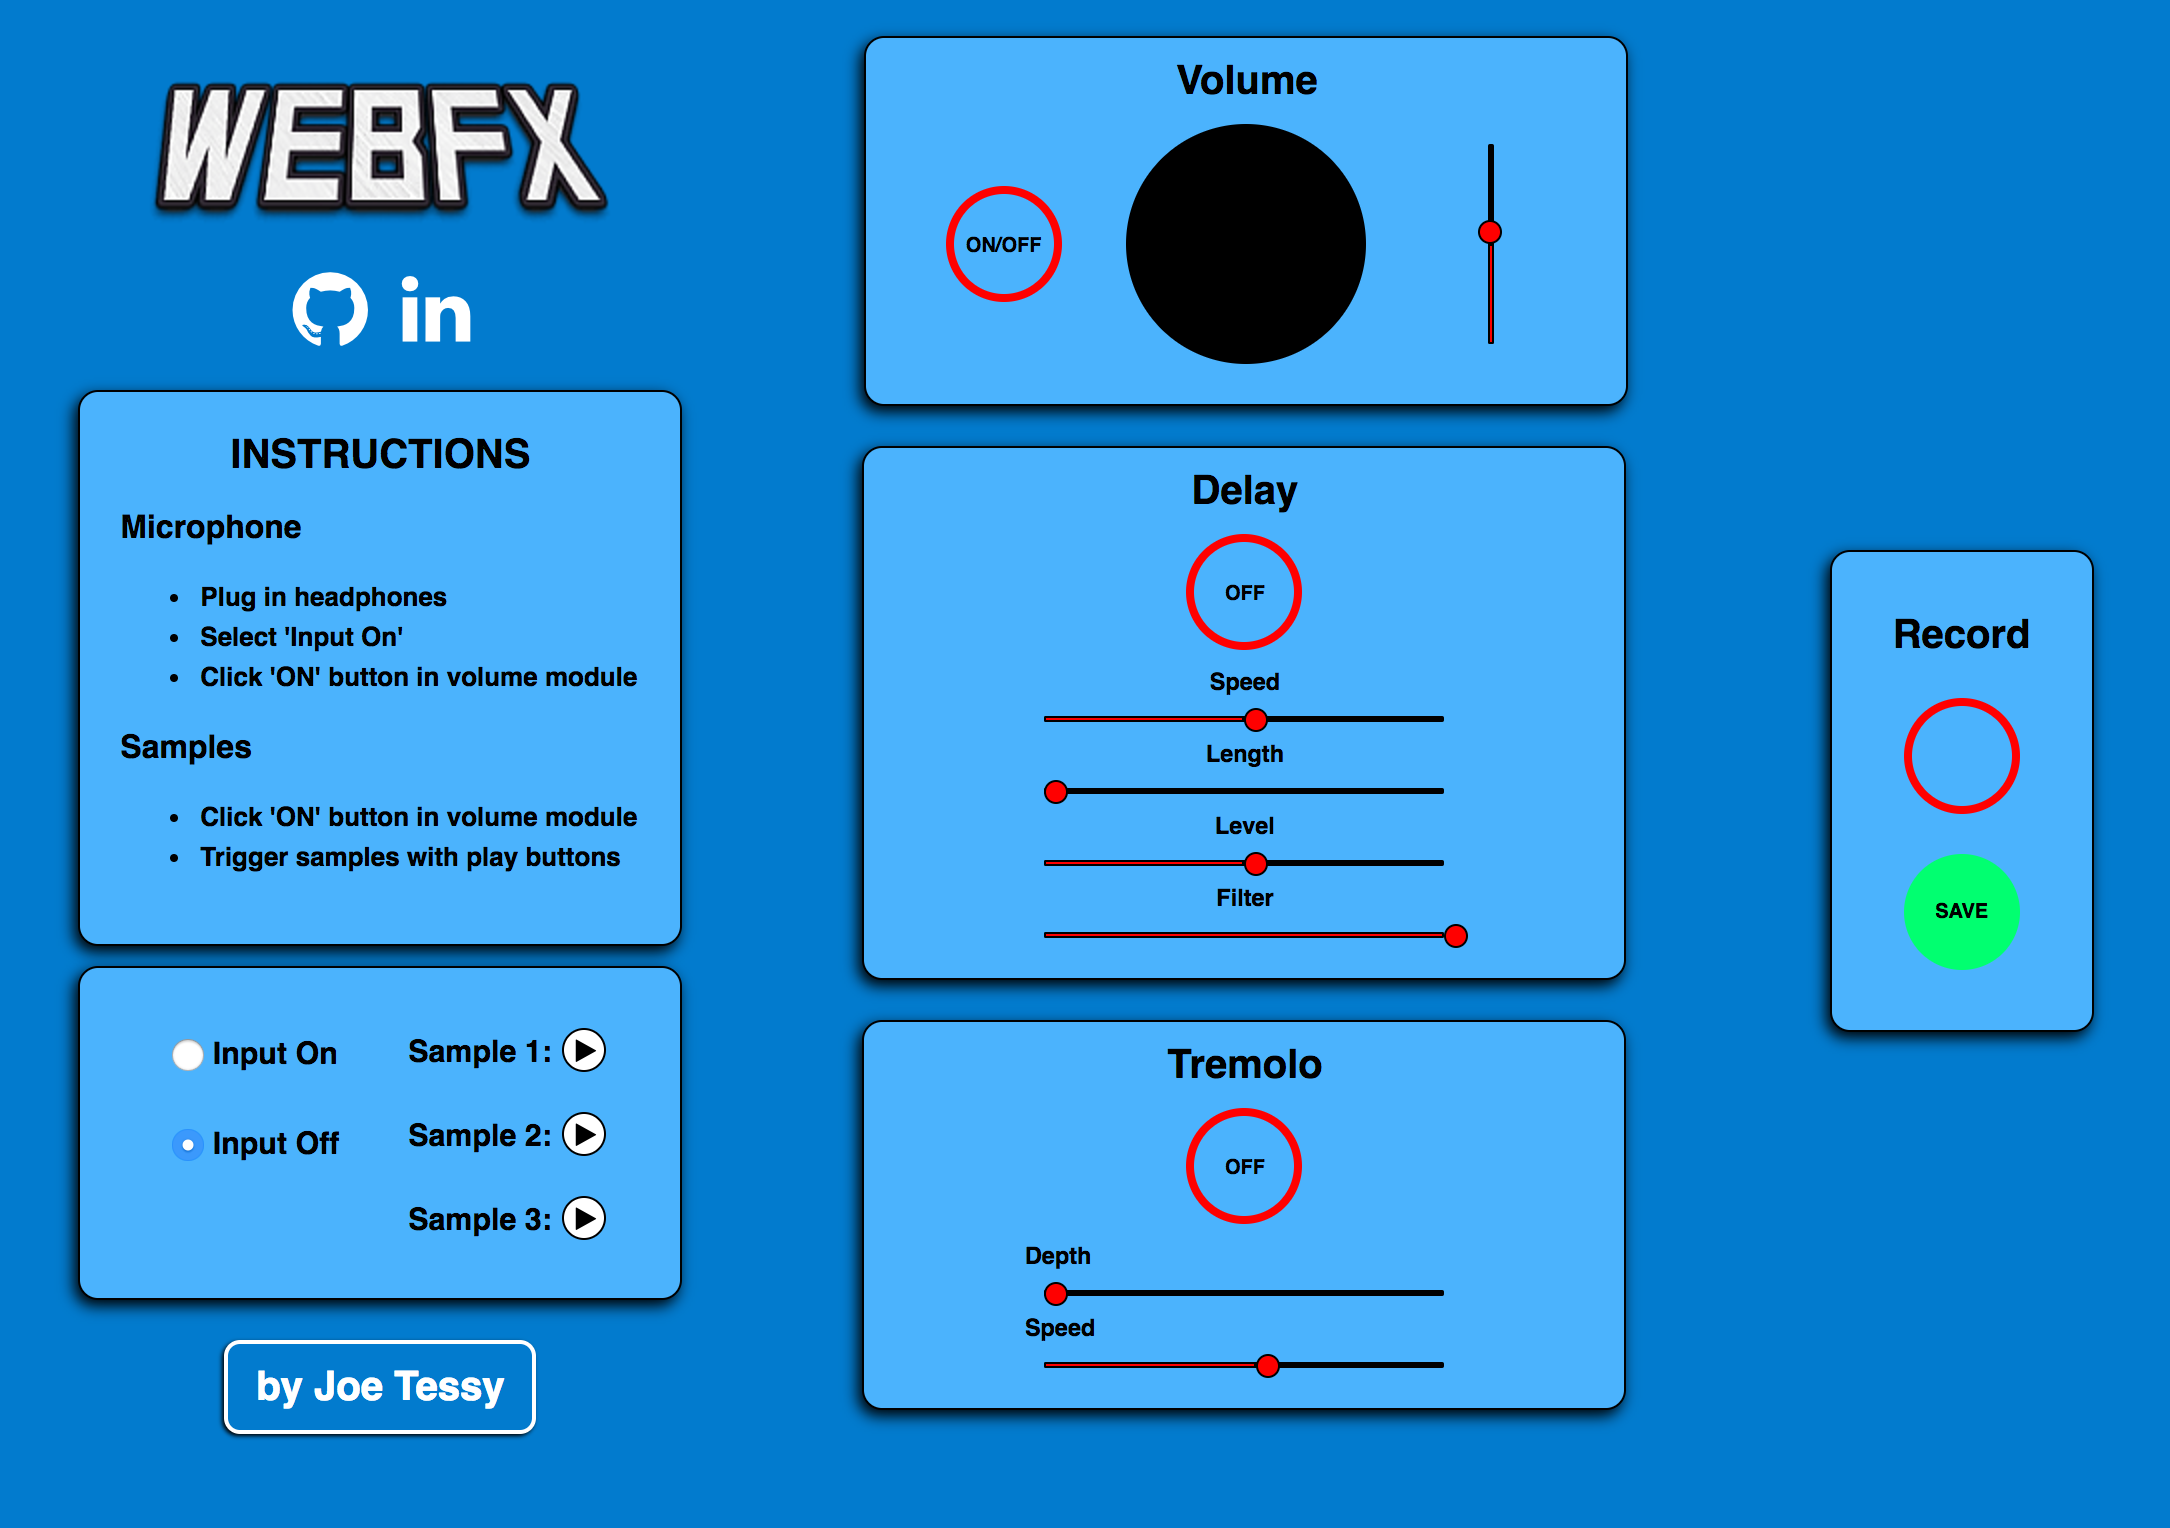
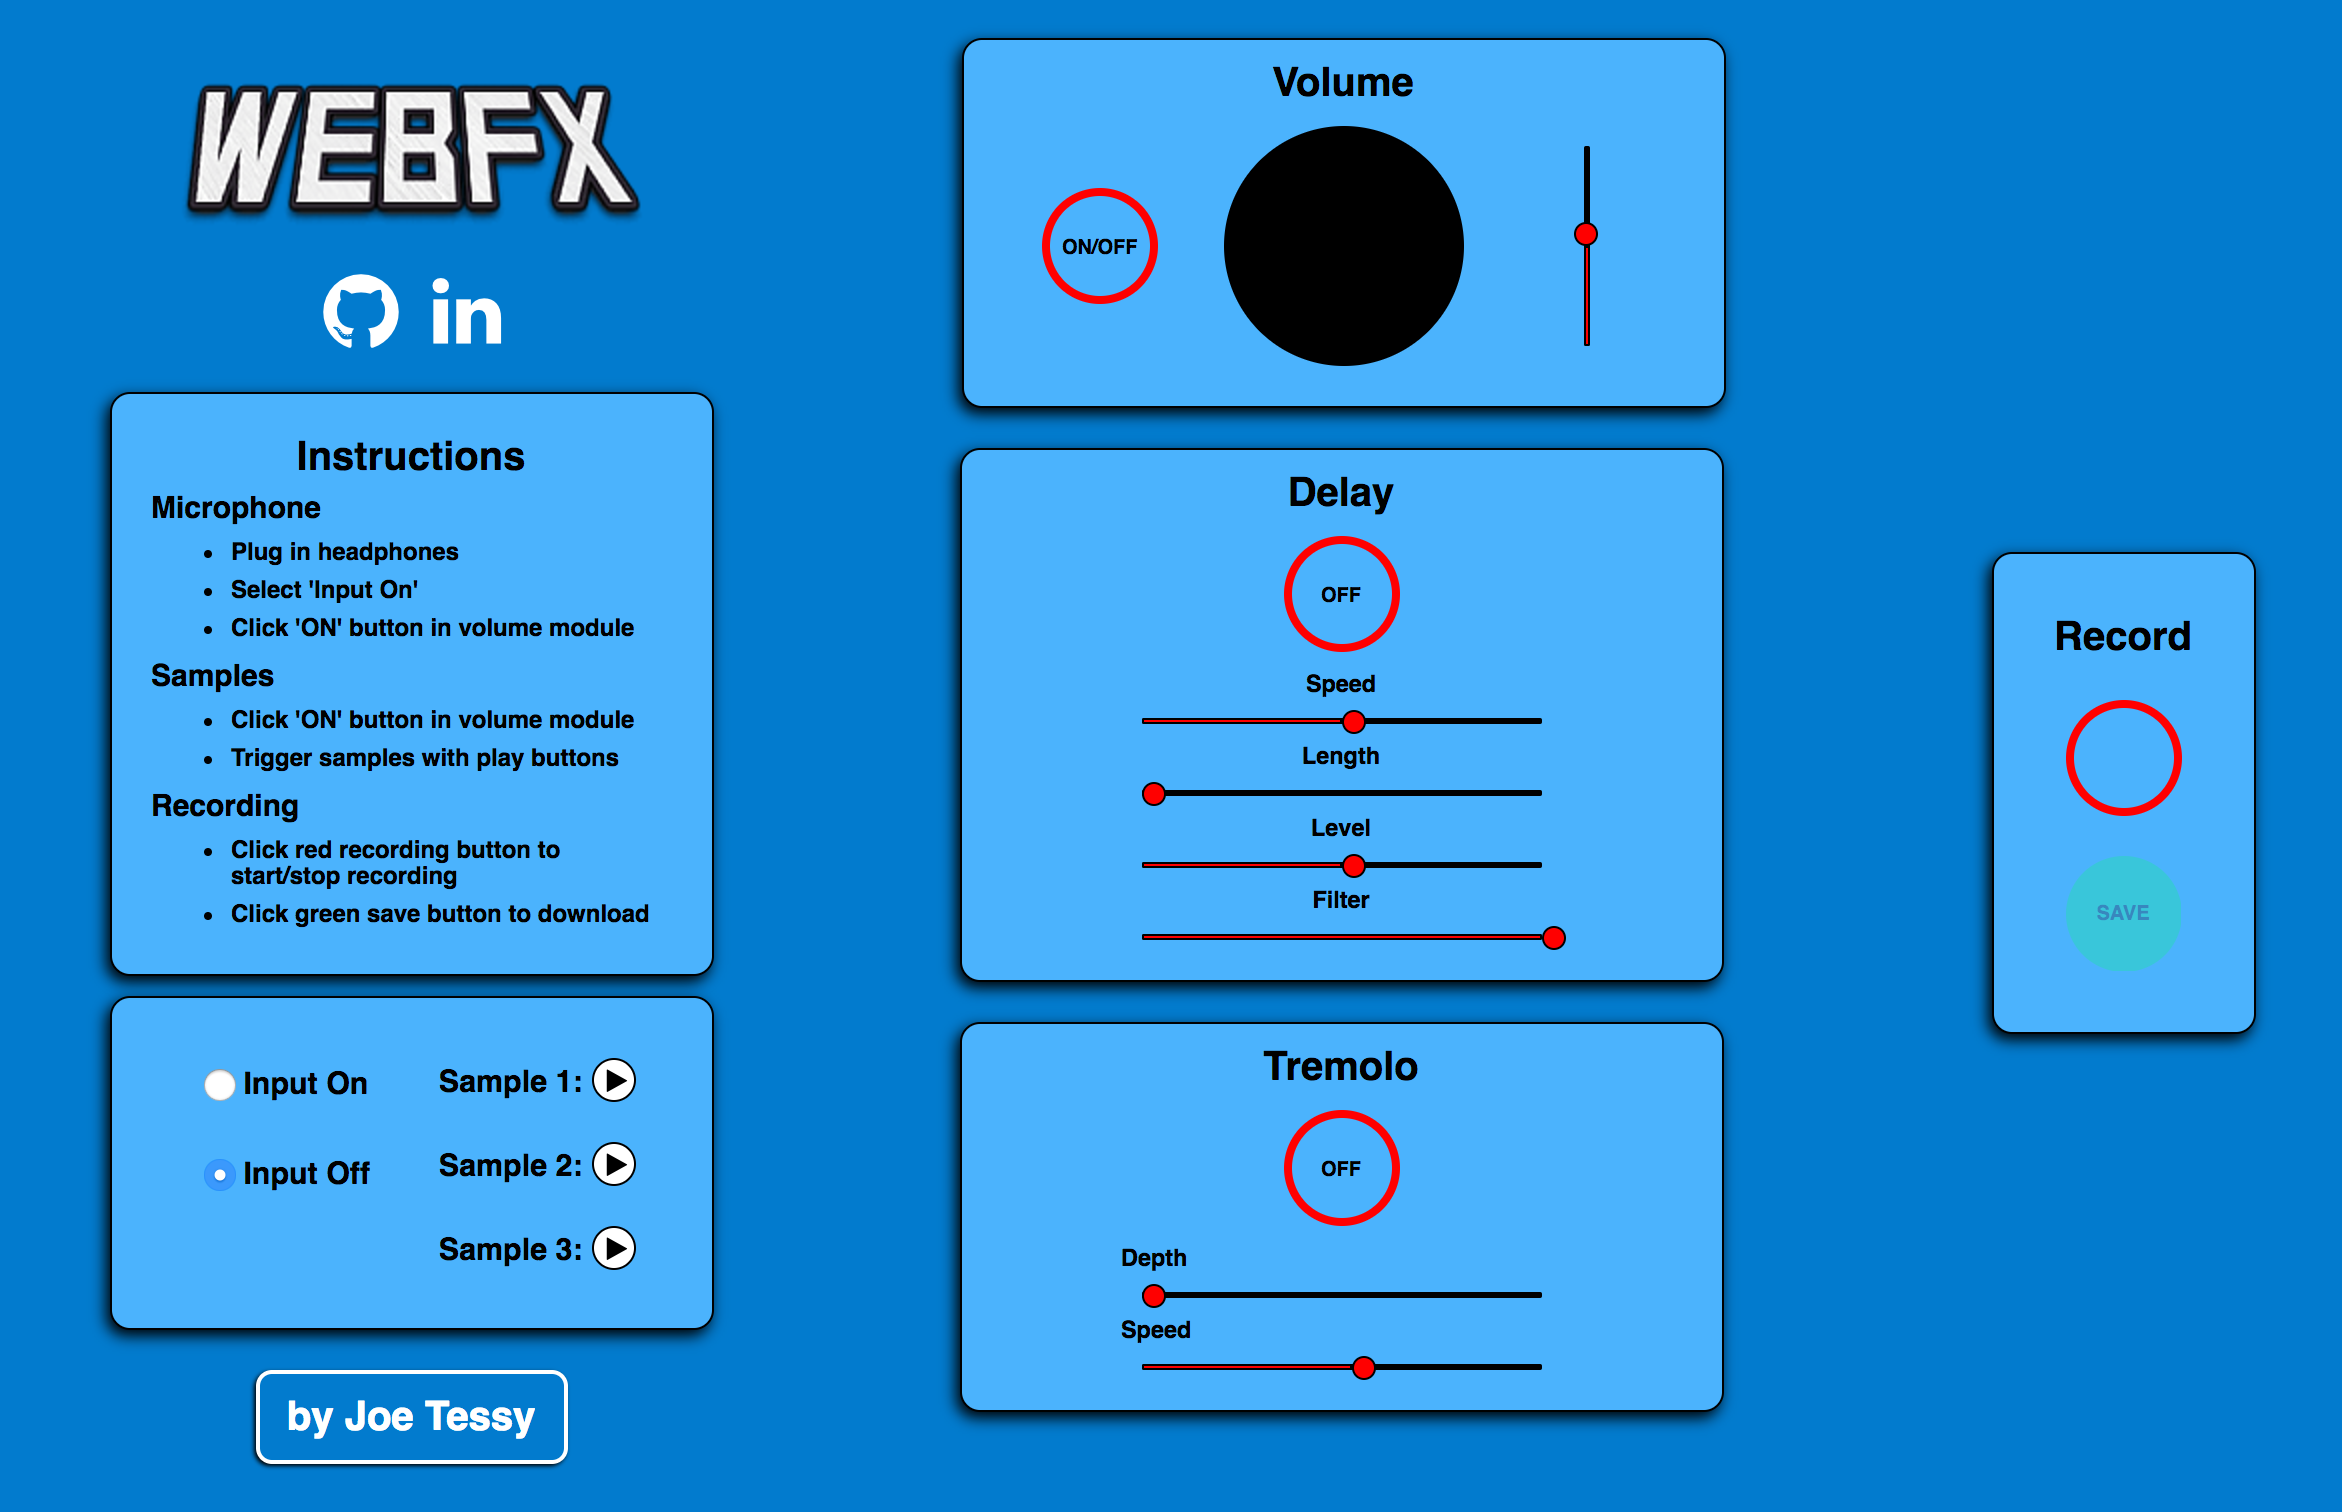
clean up
made cursor pointer for input buttons

made instructions clearer

updated image

update layout

layout changes

layout styling

layout styling

Layout Changes

diff --git a/scripts/main.js b/scripts/main.js
@@ -1,7 +1,3 @@
-// everything is happening inside the AudioContext Interface
-// Controls creation of AudioNodes and execution of Audio Processing
-
-
 window.AudioContext = window.AudioContext || window.webkitAudioContext;
 let audioContext = new AudioContext();
 let streamSource = null,
@@ -46,7 +42,6 @@ const play3Button = document.querySelector('#play3');
 play3Button.onclick = () => handleClick(play3Button, audio3Buffer);
 
 let sample;
-
 function handleClick(button, audioBuffer) {
   if (button.children[0].className.includes('fa-play')){
     if (sample){
@@ -65,15 +60,13 @@ function handleClick(button, audioBuffer) {
   } else if (button.children[0].className.includes('fa-pause')){
     button.children[0].className = 'fa fa-play';
     sample.stop();
-    }
-	}
-
+  }
+}
 
 function gotStream(stream){
   streamSource = audioContext.createMediaStreamSource(stream);
   streamSource.connect(mixNode);
 }
-// Checks for input. If there is, start the stream
 
 function didntGetStream(){
   console.log('No stream :(');
@@ -87,17 +80,12 @@ function initAudio(){
 
 function cancelAudio(){
   streamSource.disconnect(mixNode);
-
+  streamSource.disconnect(delayEffect);
 }
 
-// Creates media stream
-
 const onOff = document.querySelector('#on-off');
-const audioOn = document.querySelector('.audio-on');
-const audioOff = document.querySelector('.audio-off');
 onOff.onclick = startStopAudio;
 
-// Handles starting / stopping audio.
 function startStopAudio(){
   if (onOff.className ==='audio-off') {
     onOff.className = 'audio-on';
@@ -105,9 +93,6 @@ function startStopAudio(){
     mixNode.connect(volumeNode);
     mixNode.gain.value = 1;
     volumeNode.gain.value = .5;
-    // if (streamSource){
-    //   streamSource.connect(mixNode);
-    // }
     sampleNode.connect(mixNode);
     volumeAnalyser.connect(audioContext.destination);
     onOff.innerHTML='ON';
@@ -136,11 +121,11 @@ function handleRecord(){
 }
 
 function doneEncoding( blob ) {
-    Recorder.setupDownload( blob, "myRecording.wav" );
+  Recorder.setupDownload( blob, "myRecording.wav" );
 }
 
 function gotBuffers( buffers ) {
-    rec.exportWAV( doneEncoding );
+  rec.exportWAV( doneEncoding );
 }
 // Volume
 
@@ -160,8 +145,6 @@ $('#volume').slider({
     setVolume((ui.value) / 100);
   }
 });
-
-// Oscilloscope
 
 let canvas = document.querySelector('.waveform');
 let canvasCtx = canvas.getContext('2d');
@@ -201,8 +184,6 @@ function visualize(){
   }
   draw();
 }
-
-// DELAY
 
 const delayOnOff = document.querySelector('#delay-on-off');
 delayOnOff.onclick = handleDelay;

diff --git a/stylesheets/styles.css b/stylesheets/styles.css
@@ -25,25 +25,25 @@ h2 {
   color: black;
   box-shadow: -2px 3px 11px black;
   font-size: 13px;
+  margin: 10px 0;
 }
 
 .social-links{
   width: 90px;
   display: flex;
   justify-content: space-between;
+  margin: 10px 0;
 }
 
 .logo {
-  margin-top: 20px;
+  margin-top: 30px;
 }
 .info a {
   color: white;
   text-decoration: none;
+  height: 40px;
 }
 
-.social-links{
-  margin: 20px;
-}
 .github-link {
 }
 
@@ -91,6 +91,7 @@ header {
 
 .instructions li {
   padding: 3px 0;
+  font-size: 12px;
 }
 
 .select-input li,
@@ -141,7 +142,6 @@ body {
 }
 
 .content {
-  padding-top: 20px;
   display: flex;
   flex-direction: row;
   width: 100%;
@@ -149,15 +149,16 @@ body {
 }
 
 .info {
-  padding: 0 10px;
   color: white;
   display: flex;
   flex-direction: column;
-  width: 300px;
+  width: 40%;
   align-items: center;
+  height: 100%;
 }
 
 .user-options {
+  width: 20%;
   display: flex;
   align-items: center;
   flex-direction: column;
@@ -229,22 +230,23 @@ body {
 }
 
 .effects {
-  width: 420px;
+  width: 40%;
+  display: flex;
+  flex-direction: column;
+  align-items: center;
+  justify-content: space-between;
+  margin: 30px 0;
 }
 
-.volume-effect, .delay-effect, .tremolo-effect {
+.effect {
   background-color: #4BB3FD;
   width: 350px;
   border-radius: 10px;
   border: 1px solid black;
   padding: 10px 15px;
   box-shadow: -2px 3px 11px black;
-  margin: 20px auto;
 }
 
-.volume-effect{
-  margin: 0 20px 20px 20px;
-}
 
 .volume-on-container{
   width: 33.33%
@@ -253,7 +255,9 @@ body {
 .volume-controls{
   align-items: center;
   display: flex;
-  width: 100%;
+  width: 90%;
+  margin: auto;
+  margin: 10px auto;
   justify-content: space-around;
 }
 
@@ -293,14 +297,6 @@ body {
   display: flex;
   flex-direction: column;
   align-items: center;
-}
-
-
-.waveform-container{
-  display: flex;
-  flex-direction: column;
-  align-items: center;
-  margin: 10px;
 }
 
 #volume {
@@ -349,7 +345,7 @@ body {
   background-color: black;
 }
 
-.volume-slider-container, .waveform-container, .volume-on-container{
+.volume-module-item{
   width: 33.33%;
   display: flex;
   align-items: center;
@@ -456,7 +452,7 @@ body {
 }
 
 .fa-play{
-  padding-left: 2px;
+  padding-left: 2.5px;
 }
 
 .fa-pause{
@@ -465,6 +461,11 @@ body {
 input{
   font-size: 30px;
   margin: 5px;
+  cursor: pointer;
+}
+
+.sample-item{
+  cursor: pointer;
 }
 
 #save {
@@ -478,4 +479,12 @@ input{
 
 #save[download] .save {
   opacity: 1;
+}
+
+p {
+  margin: 5px 0;
+  font-size: 15px;
+}
+.instructions ul {
+  margin: 0;
 }

diff --git a/index.html b/index.html
@@ -26,7 +26,7 @@
         </a>
       </div>
       <div class='instructions-container'>
-        <h2> INSTRUCTIONS </h2>
+        <h2> Instructions </h2>
         <p>Microphone</p>
           <div class='instructions'>
             <ul>
@@ -52,6 +52,17 @@
             </li>
           </ul>
         </div>
+        <p> Recording </p>
+          <div class='instructions'>
+            <ul>
+              <li>
+                Click red recording button to start/stop recording
+              </li>
+              <li>
+                Click green save button to download
+              </li>
+            </ul>
+          </div>
       </div>
       <div class='user-controls'>
         <div class='controls-container'>
@@ -97,21 +108,21 @@
       </a>
     </div>
     <div class=effects>
-      <div class='volume-effect'>
+      <div class='effect'>
         <h2> Volume </h2>
         <div class='volume-controls'>
-          <div class='volume-on-container'/>
+          <div class='volume-module-item'/>
             <div id='on-off' class='audio-off'>ON/OFF</div>
           </div>
-          <div class='waveform-container'>
+          <div class='volume-module-item'>
             <canvas class='waveform'></canvas>
           </div>
-          <div class='volume-slider-container'>
+          <div class='volume-module-item'>
             <div id='volume'></div>
           </div>
         </div>
       </div>
-      <div class='delay-effect'>
+      <div class='effect'>
         <div class='delay-container'>
           <h2> Delay </h2>
           <div class='delay-controls'>
@@ -137,7 +148,7 @@
           </div>
         </div>
       </div>
-      <div class='tremolo-effect'>
+      <div class='effect'>
         <h2> Tremolo </h2>
         <div class='tremolo-controls'>
           <div class='tremolo-on-container'/>
